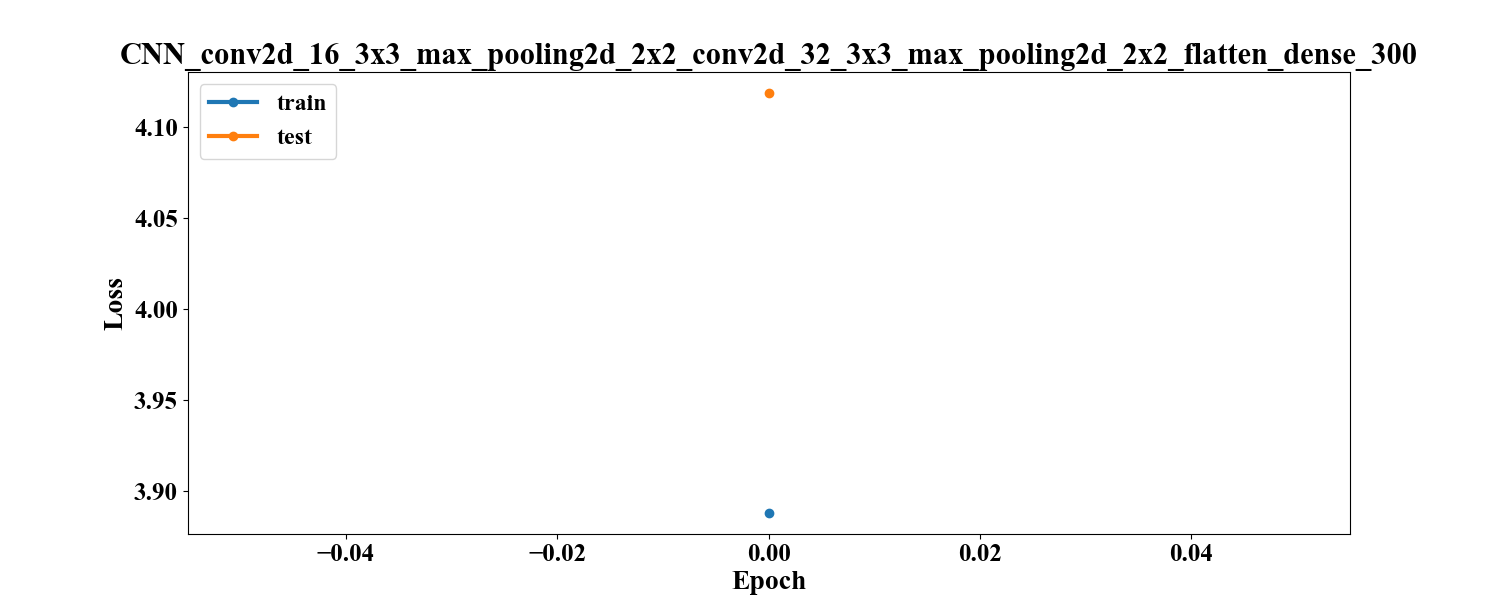
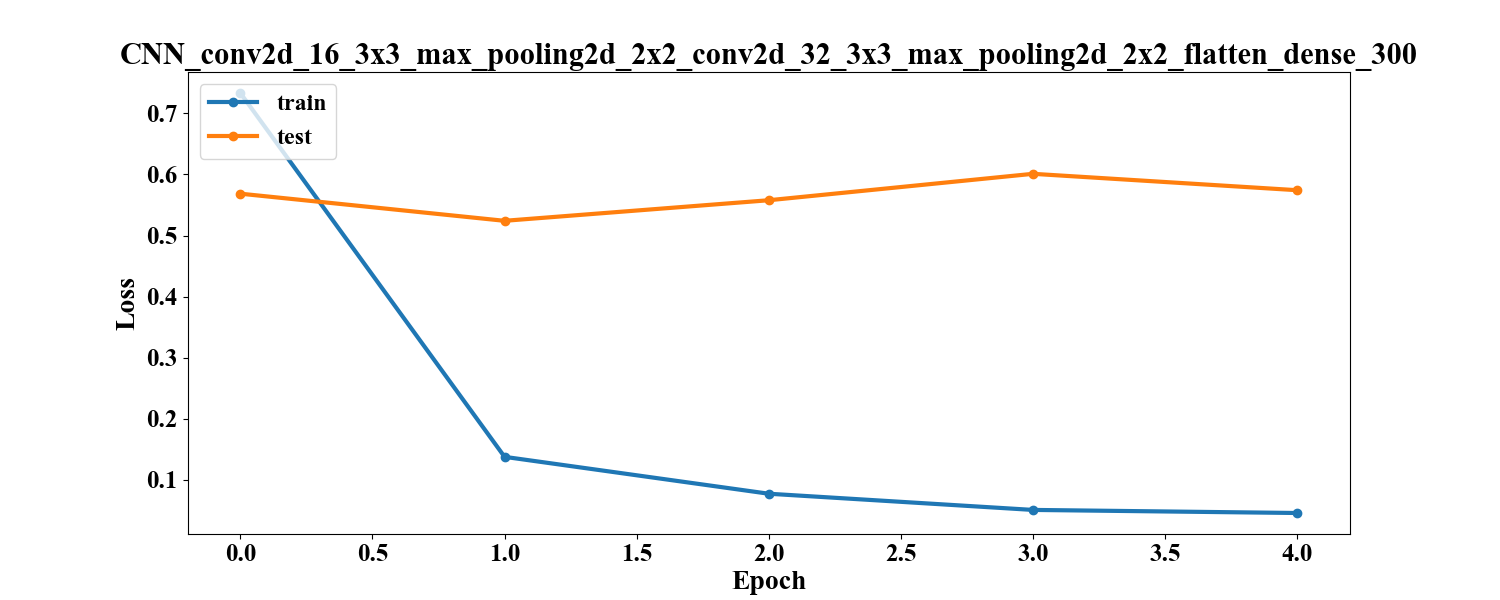
Add lab3 current results

diff --git a/lab3/readme.md b/lab3/readme.md
@@ -31,19 +31,29 @@
 ### Результаты
 [comment]: # (result_table_start)
 
-|                                      Model name                                       | Test accuracy | Test loss | Train accuracy | Train loss | Time_train (s) |
-| :------------------------------------------------------------------------------------ | :-----------: | :-------: | :------------: | :--------: | :------------: |
-| CNN_conv2d_16_3x3_max_pooling2d_2x2_conv2d_32_3x3_max_pooling2d_2x2_flatten_dense_300 |    0.0525     |  4.0882   |     0.0349     |   4.1245   |     0.8096     |
-| CNN_conv2d_32_3x3_max_pooling2d_2x2_conv2d_64_3x3_max_pooling2d_2x2_flatten_dense_300 |     0.084     |  5.1848   |     0.0343     |   5.1334   |     0.8156     |
+|                                                      Model name                                                       | Test accuracy | Test loss | Train accuracy | Train loss | Time_train (s) |
+| :-------------------------------------------------------------------------------------------------------------------- | :-----------: | :-------: | :------------: | :--------: | :------------: |
+| CNN_conv2d_16_3x3_max_pooling2d_2x2_flatten_dense_300                                                                 |    0.8746     |  0.7346   |     0.9817     |   0.0751   |    248.1095    |
+| CNN_conv2d_32_3x3_max_pooling2d_2x2_flatten_dense_128                                                                 |    0.8607     |  0.8779   |     0.9722     |   0.1015   |    289.3085    |
+| CNN_conv2d_32_3x3_max_pooling2d_2x2_flatten_dense_300                                                                 |    0.8604     |  0.8973   |     0.9718     |   0.1106   |    424.3355    |
+| CNN_conv2d_32_3x3_max_pooling2d_2x2_flatten_dense_500                                                                 |    0.8684     |  0.9368   |     0.9765     |   0.1093   |    582.2546    |
+| CNN_conv2d_16_3x3_max_pooling2d_2x2_conv2d_32_3x3_max_pooling2d_2x2_flatten_dense_300                                 |    0.9013     |  0.5742   |     0.9925     |   0.0282   |    335.5144    |
+| CNN_conv2d_32_3x3_max_pooling2d_2x2_conv2d_64_3x3_max_pooling2d_2x2_flatten_dense_300                                 |     0.921     |  0.3852   |     0.995      |   0.0201   |    565.3414    |
+| CNN_conv2d_16_3x3_max_pooling2d_2x2_conv2d_32_3x3_max_pooling2d_2x2_conv2d_64_3x3_max_pooling2d_2x2_flatten_dense_300 |    0.8849     |  0.6501   |     0.9894     |   0.0337   |    357.0304    |
 
 [comment]: # (result_table_end)
 
 [comment]: # (graph_table_start)
 
-|                                                  Accuracy                                                   |                                                  Loss                                                   |
-| :---------------------------------------------------------------------------------------------------------- | :------------------------------------------------------------------------------------------------------ |
-| ![](img/CNN_conv2d_16_3x3_max_pooling2d_2x2_conv2d_32_3x3_max_pooling2d_2x2_flatten_dense_300_accuracy.png) | ![](img/CNN_conv2d_16_3x3_max_pooling2d_2x2_conv2d_32_3x3_max_pooling2d_2x2_flatten_dense_300_loss.png) |
-| ![](img/CNN_conv2d_32_3x3_max_pooling2d_2x2_conv2d_64_3x3_max_pooling2d_2x2_flatten_dense_300_accuracy.png) | ![](img/CNN_conv2d_32_3x3_max_pooling2d_2x2_conv2d_64_3x3_max_pooling2d_2x2_flatten_dense_300_loss.png) |
+|                                                                  Accuracy                                                                   |                                                                  Loss                                                                   |
+| :------------------------------------------------------------------------------------------------------------------------------------------ | :-------------------------------------------------------------------------------------------------------------------------------------- |
+| ![](img/CNN_conv2d_16_3x3_max_pooling2d_2x2_flatten_dense_300_accuracy.png)                                                                 | ![](img/CNN_conv2d_16_3x3_max_pooling2d_2x2_flatten_dense_300_loss.png)                                                                 |
+| ![](img/CNN_conv2d_32_3x3_max_pooling2d_2x2_flatten_dense_128_accuracy.png)                                                                 | ![](img/CNN_conv2d_32_3x3_max_pooling2d_2x2_flatten_dense_128_loss.png)                                                                 |
+| ![](img/CNN_conv2d_32_3x3_max_pooling2d_2x2_flatten_dense_300_accuracy.png)                                                                 | ![](img/CNN_conv2d_32_3x3_max_pooling2d_2x2_flatten_dense_300_loss.png)                                                                 |
+| ![](img/CNN_conv2d_32_3x3_max_pooling2d_2x2_flatten_dense_500_accuracy.png)                                                                 | ![](img/CNN_conv2d_32_3x3_max_pooling2d_2x2_flatten_dense_500_loss.png)                                                                 |
+| ![](img/CNN_conv2d_16_3x3_max_pooling2d_2x2_conv2d_32_3x3_max_pooling2d_2x2_flatten_dense_300_accuracy.png)                                 | ![](img/CNN_conv2d_16_3x3_max_pooling2d_2x2_conv2d_32_3x3_max_pooling2d_2x2_flatten_dense_300_loss.png)                                 |
+| ![](img/CNN_conv2d_32_3x3_max_pooling2d_2x2_conv2d_64_3x3_max_pooling2d_2x2_flatten_dense_300_accuracy.png)                                 | ![](img/CNN_conv2d_32_3x3_max_pooling2d_2x2_conv2d_64_3x3_max_pooling2d_2x2_flatten_dense_300_loss.png)                                 |
+| ![](img/CNN_conv2d_16_3x3_max_pooling2d_2x2_conv2d_32_3x3_max_pooling2d_2x2_conv2d_64_3x3_max_pooling2d_2x2_flatten_dense_300_accuracy.png) | ![](img/CNN_conv2d_16_3x3_max_pooling2d_2x2_conv2d_32_3x3_max_pooling2d_2x2_conv2d_64_3x3_max_pooling2d_2x2_flatten_dense_300_loss.png) |
 
 [comment]: # (graph_table_end)
 
